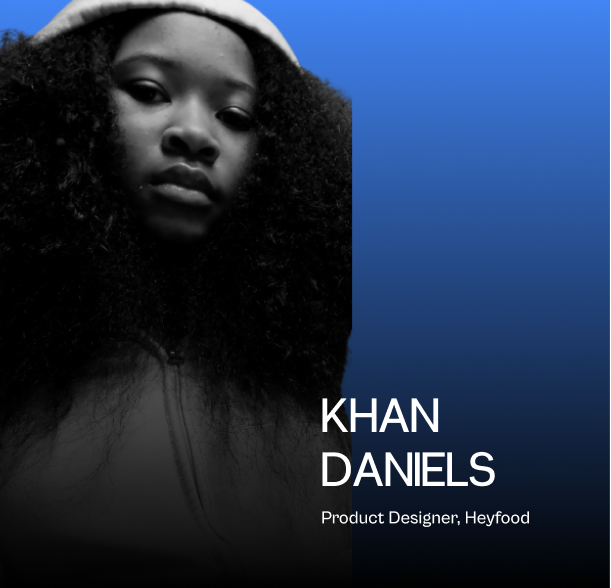
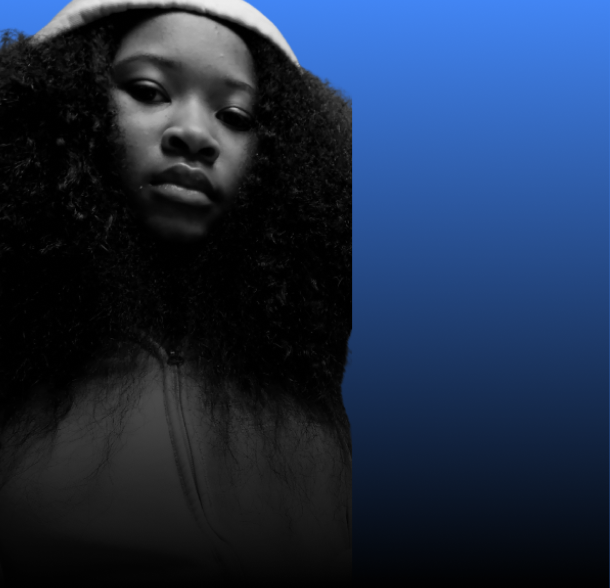
feat: speaker section added

diff --git a/src/app/speakers/page.tsx b/src/app/speakers/page.tsx
@@ -4,13 +4,12 @@ import Link from 'next/link';
 import Image from 'next/image';
 import Speaker from "@/assets/imgs/speaker.png"
 import Star from "@/assets/imgs/star.png"
-// import TwitterIcon from "@/assets/svgs/twitter.svg";
-import LinkedinIcon from "@/assets/svgs/linkedin.svg";
 import { TwitterIcon, XIcon } from '@/icons';
 import { LinkedInIcon } from '@/icons/linkedin-icon';
 import Button from '../component/Button';
 import Footer from '../component/Footer';
 import Header from '../component/Header';
+import BackButton from '../component/BackButton';
 
 const Speakers = () => {
   return (
@@ -18,10 +17,14 @@ const Speakers = () => {
     <Header />
     <div className={Styles.speakerContainer}>
         <div className={Styles.container}>
-        <Link className={Styles.link} href={''}>Back to Homepage</Link>
+          <BackButton />
         <div className={Styles.flexContainer}>
             <div className={Styles.imageFlex}>
                 <Image src={Speaker} className={Styles.speakerImg} alt={''} />
+                <div className={Styles.speakerInfo}>
+                  <h2>KHAN <br/> DANIELS</h2>
+                  <p>Product Designer, Heyfood</p>
+                </div>
                 <Image src={Star} className={Styles.star} alt={''} />
             </div>
             <div className={Styles.aboutFlex}>
@@ -33,9 +36,9 @@ const Speakers = () => {
                 </div>
 
 
-                <div className={Styles.float}>
-                <div className={Styles.leftFloat}></div>
-                <div className={Styles.rightFloat}>
+                <div className={Styles.flex}>
+                <div className={Styles.leftFlex}></div>
+                <div className={Styles.rightFlex}>
                 <div className={Styles.social}>
               <Link href="!#">
                 <LinkedInIcon />

diff --git a/src/app/speakers/styles.module.scss b/src/app/speakers/styles.module.scss
@@ -13,15 +13,6 @@
     padding-right: 2rem;
   }
 
-    .link {
-      color: var(--primary);
-      padding-bottom: 3rem;
-      text-decoration: underline;
-      font-size: 20px;
-      font-weight: 500;
-      line-height: 24px;
-    }
-
     .flexContainer {
       display: flex;
       gap: 2rem;
@@ -39,6 +30,31 @@
         .speakerImg {
           position: relative;
           z-index: 3;
+        }
+
+        .speakerInfo {
+          color: var(--light-white);
+          position: absolute;
+          bottom: 4.5rem;
+          right: 4.6rem;
+          z-index: 4;
+
+          h2 {
+            font-weight: 400;
+            font-size: 48px;
+            line-height: 54px;
+          }
+
+          p {
+            font-weight: 500;
+            font-size: 18px;
+            line-height: 22px;
+          }
+
+          @media screen and (max-width: 768px) {
+            bottom: 3rem;
+            right: 3rem;
+        }
         }
 
         .star {
@@ -107,11 +123,11 @@
     }
 
 
-    .float {
+    .flex {
       display: flex;
       gap: 2rem;
       color: var(--light-white);
-      .leftFloat{
+      .leftFlex{
         flex: 1;
 
         @media screen and (max-width: 768px) {
@@ -119,7 +135,7 @@
       }
       }
 
-      .rightFloat {
+      .rightFlex {
         flex: 1;
       
       .social {
